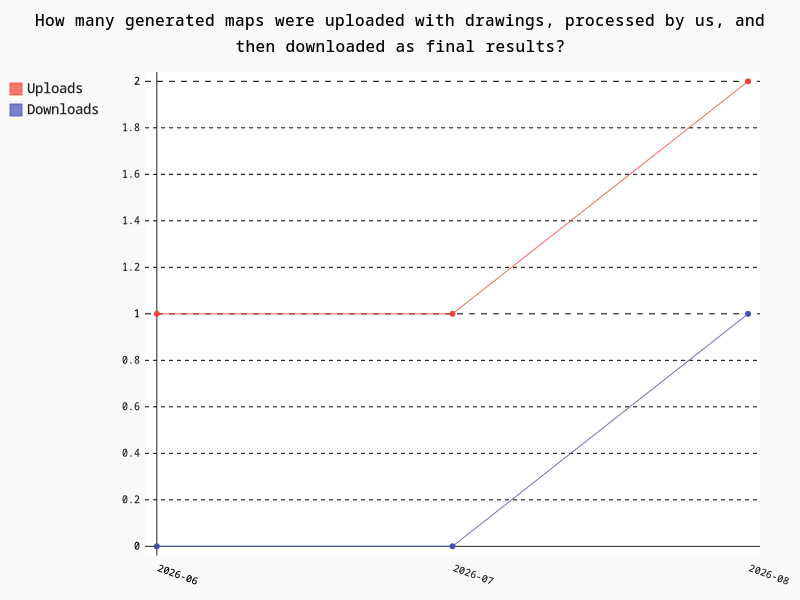
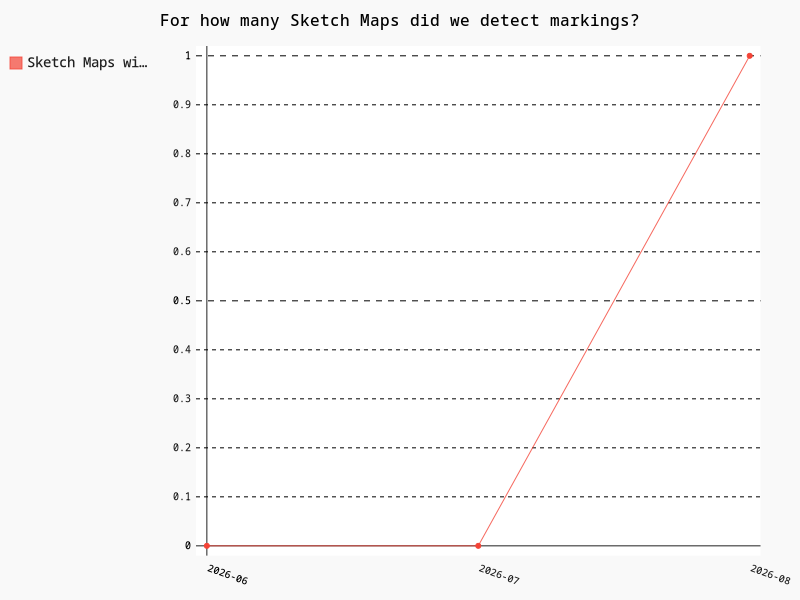
usage-numbers: only count sketch maps if they were actually downloaded

diff --git a/sketch_map_tool/templates/usage.html b/sketch_map_tool/templates/usage.html
@@ -6,10 +6,16 @@
 
 {% block body %}
 <main class="container">
-	<article>
-		<header>{{ _('Number of created Sketch Maps') }}</header>
-		<code style="font-size: 2rem;">{{ number_of_sketch_maps }}</code>
-	</article>
+	<div class="grid">
+		<article>
+			<header>{{ _('How many Sketch Maps have been created?') }}</header>
+			<code style="font-size: 2rem;">{{ number_of_sketch_maps }}</code>
+		</article>
+		<article>
+			<header>{{ _('For how many Sketch Maps did we detect markings?') }}</header>
+			<code style="font-size: 2rem;">{{ number_of_detected_markings }}</code>
+		</article>
+	</div>
 	{%- for chart in charts %}
 	<div id="chart">
 		<embed type="image/svg+xml" src={{ chart|safe }}>

diff --git a/sketch_map_tool/usage_charts.py b/sketch_map_tool/usage_charts.py
@@ -19,7 +19,20 @@ def create_monthly_bins(start: datetime, end: datetime) -> dict:
     return month_series.to_dict()
 
 
+def get_created_sketch_maps_number(stats):
+    # NOTE: created for usage numbers means actually created AND downloaded
+    downloaded = []
+    for row in stats:
+        if row["downloaded"] is not None:
+            downloaded.append(1)
+        else:
+            downloaded.append(0)
+    return sum(downloaded)
+
+
 def get_created_sketch_maps(stats: list[dict]) -> Graph:
+    # NOTE: created for usage numbers means actually created AND downloaded
+
     created_timestamps = [row["created"] for row in stats]
     monthly_bins = create_monthly_bins(min(created_timestamps), max(created_timestamps))
 
@@ -39,23 +52,27 @@ def get_created_sketch_maps(stats: list[dict]) -> Graph:
         created_by_month[month] += c
         downloaded_by_month[month] += d
 
-    created_accumulated = list(accumulate(created_by_month.values()))
-    # downloaded_accumulated = list(accumulate(downloaded_by_month.values()))
+    # created_accumulated = list(accumulate(created_by_month.values()))
+    downloaded_accumulated = list(accumulate(downloaded_by_month.values()))
     timestamps = list(monthly_bins.keys())
 
     line_chart = pygal.Line(
         x_label_rotation=20,
         x_labels_major_every=3,
     )
-    line_chart.title = _("How many Sketch Maps have been generated?")
+    line_chart.title = _("How many Sketch Maps have been created?")
     line_chart.x_labels = timestamps
-    line_chart.add(_("Created"), created_accumulated)
-    # line_chart.add(_("Downloaded"), downloaded_accumulated)
+    # line_chart.add(_("Created"), created_accumulated)
+    line_chart.add(_("Created Sketch Maps"), downloaded_accumulated)
 
     return line_chart
 
 
-def get_uploaded_markings_and_downloaded_results(stats: list[dict]) -> Graph:
+def get_detected_markings_number(stats: list[dict]) -> int:
+    return sum([row["downloads"] for row in stats])
+
+
+def get_detected_markings(stats: list[dict]) -> Graph:
     created_timestamps = [row["created"] for row in stats]
     monthly_bins = create_monthly_bins(min(created_timestamps), max(created_timestamps))
 
@@ -75,7 +92,7 @@ def get_uploaded_markings_and_downloaded_results(stats: list[dict]) -> Graph:
         uploads_per_month[month] += u
         downloads_per_month[month] += d
 
-    uploads_accumulated = list(accumulate(uploads_per_month.values()))
+    # uploads_accumulated = list(accumulate(uploads_per_month.values()))
     downloads_accumulated = list(accumulate(downloads_per_month.values()))
     timestamps = list(monthly_bins.keys())
 
@@ -83,15 +100,9 @@ def get_uploaded_markings_and_downloaded_results(stats: list[dict]) -> Graph:
         x_label_rotation=20,
         x_labels_major_every=3,
     )
-    line_chart.title = _(
-        (
-            "How many generated maps were uploaded with drawings, "
-            "processed by us, and then downloaded as final results?"
-        )
-    )
+    line_chart.title = _("For how many Sketch Maps did we detect markings?")
     line_chart.x_labels = timestamps
-    line_chart.add(_("Uploads"), uploads_accumulated)
-    line_chart.add(_("Downloads"), downloads_accumulated)
+    line_chart.add(_("Sketch Maps with detected markings"), downloads_accumulated)
 
     return line_chart
 

diff --git a/sketch_map_tool/routes.py b/sketch_map_tool/routes.py
@@ -90,13 +90,12 @@ def create(lang="en") -> str:
 @app.get("/<lang>/usage")
 def usage(lang="en"):
     stats = db_client_flask.select_usage_statistics()
-    number_of_sketch_maps = len(stats)
     charts = []
 
     chart = usage_charts.get_created_sketch_maps(stats)
     charts.append(chart.render_data_uri())
 
-    chart = usage_charts.get_uploaded_markings_and_downloaded_results(stats)
+    chart = usage_charts.get_detected_markings(stats)
     charts.append(chart.render_data_uri())
 
     chart = usage_charts.layer_distribution(stats)
@@ -111,10 +110,14 @@ def usage(lang="en"):
     chart = usage_charts.consent_distribution(stats)
     charts.append(chart.render_data_uri())
 
+    number_of_sketch_maps = usage_charts.get_created_sketch_maps_number(stats)
+    number_of_detected_markings = usage_charts.get_detected_markings_number(stats)
+
     return render_template(
         "usage.html",
         charts=charts,
         number_of_sketch_maps=number_of_sketch_maps,
+        number_of_detected_markings=number_of_detected_markings,
     )
 
 

diff --git a/sketch_map_tool/database/client_flask.py b/sketch_map_tool/database/client_flask.py
@@ -166,6 +166,7 @@ def select_map_frame(uuid: UUID) -> tuple[bytes, str, str]:
 
 
 def update_files_digitize_uuid(file_ids: list[int] | tuple[int], result_uuid: UUID):
+    # NOTE: UUID are tracked since release in Mar 3, 2025
     update_query = """
     UPDATE
         blob
@@ -180,6 +181,7 @@ def update_files_digitize_uuid(file_ids: list[int] | tuple[int], result_uuid: UU
 
 
 def update_files_download_vector(result_uuid: UUID):
+    # NOTE: downloads are tracked since release in Mar 3, 2025
     update_query = """
     UPDATE
         blob
@@ -194,6 +196,7 @@ def update_files_download_vector(result_uuid: UUID):
 
 
 def update_files_download_raster(result_uuid: UUID):
+    # NOTE: downloads are tracked since release in Mar 3, 2025
     update_query = """
     UPDATE
         blob
@@ -208,6 +211,7 @@ def update_files_download_raster(result_uuid: UUID):
 
 
 def update_map_frame_downloaded(uuid: UUID):
+    # NOTE: downloads are tracked since release in Mar 3, 2025
     update_query = """
     UPDATE
         map_frame
@@ -256,7 +260,7 @@ def select_usage_statistics() -> list[dict]:
                 map_frame mf
             WHERE
                 -- old sketch maps do not have enough information stored in DB
-                created::date > date '2025-01-01'
+                created::date > date '2025-03-04'
             ) sm
             LEFT JOIN (
                 SELECT

diff --git a/tests/unit/test_usage_charts.py b/tests/unit/test_usage_charts.py
@@ -77,7 +77,7 @@ def test_created_and_downloaded_sketch_maps():
 
 
 def test_uploads_and_downloads():
-    chart = usage_charts.get_uploaded_markings_and_downloaded_results(data)
+    chart = usage_charts.get_detected_markings(data)
     buffer = BytesIO()
     chart.render_to_png(buffer)
     assert verify_image(buffer.getvalue(), extension=".png")